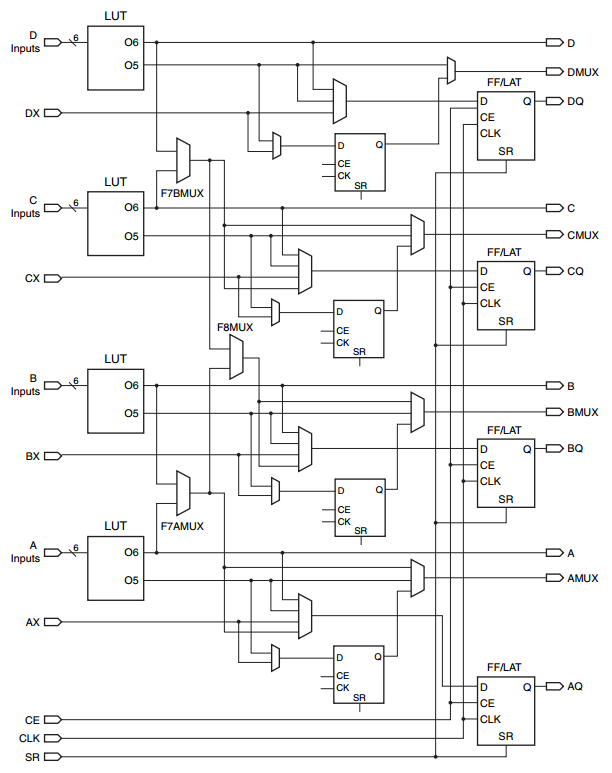
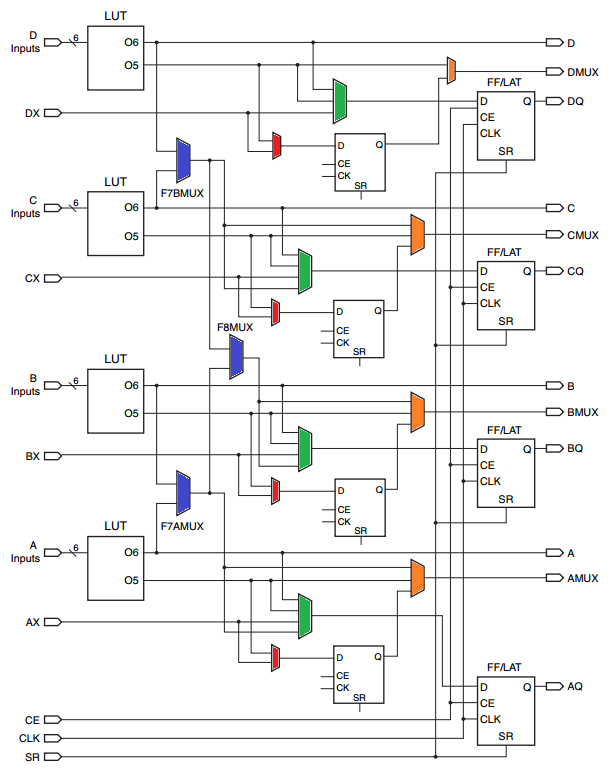
Quick save at ven. 19/08/2016_12:04:24,48

diff --git a/chapters/II-6-irradiation.tex b/chapters/II-6-irradiation.tex
@@ -7,24 +7,36 @@
 
   \section{Architecture of an FPGA}
 
-    To optimize the occupancy of the resources of the FPGA, a deep comprehension of the intrinsic architecture of the chip is required. To this end, a description of the building blocks of the FPGA is given.
+    To optimize the occupancy of the resources of the FPGA and develop code that uses the full potential of the device, a deep comprehension of the intrinsic architecture of the chip is required. To this end, a description of the building blocks of the FPGA is given.
 
-    \subsection{Configurable Logic Blocks} (CLBs) \cite{VIRTEX-CLB} are the base elements of the FPGA used to implement sequential and combinatorial logic. They are composed of two important objects: look-up tables (LUTs) and registers. LUTs are components which outputs are a function of the inputs as defined in a programmable table. They implement a truth table for every possible combination of the inputs which defines the value of the outputs. The response of a LUT to a change in the inputs is almost instantaneous. The outputs of the LUTs can, if so required by the design, be connect to registers which sample the signals at the rising edge of a given clock. Register are used for their sample-and-hold functionality which makes designs synchronous to clocks. With these two components, CLBs can implement complex functions and describe intricate systems. Each CLB is composed of two slices each composed of four LUTs and eight register which layout is shown in Figure \ref{fig:II-6-clb}. The Xilinx Virtex-6 FPGA used in the OptoHybrid v2a (XC6VLX130T) holds 10 000 CLBs with a total of 80 000 LUTs and 160 000 registers.
+    \subsection{Configurable Logic Blocks}
 
-    \begin{figure}[p!]
-      \centering
-      \includegraphics[width=\textwidth]{img/II-6-irradiation/clb.png}
-      \caption{Simplified view of a slice composed of four LUTs on the left and eight registers on the right \cite{VIRTEX-CLB}.}
-      \label{fig:II-6-clb}
-    \end{figure}
+      (CLBs) \cite{VIRTEX-CLB} are the base elements of the FPGA used to implement sequential and combinatorial logic. They are composed of two important objects: look-up tables (LUTs) and registers. LUTs are components which outputs are a function of the inputs as defined in a programmable table. They implement a truth table for every possible combination of the inputs which defines the value of the outputs. The response of a LUT to a change in the inputs is almost instantaneous. LUTs in the Xilinx Virtex-6 FPGAs can either implement functions with six inputs and a single output or functions with five inputs and two outputs. The outputs of the LUTs can, if so required by the design, be connect to registers which sample the signals at the rising edge of a given clock. Register are used for their sample-and-hold functionality which makes designs synchronous to clocks. With these two components, CLBs can implement complex functions and describe intricate systems. \\
 
-    \subsection{The switching matrix} is what connects CLBs with each other. It is a vast network of switches which are used to route signals between components. The open/closed status of each switch is programmable and defines the routes signals take inside the vast network of connections.
+      Each CLB is composed of two slices each made of four LUTs and eight register which layout is shown in Figure \ref{fig:II-6-clb}. Each LUT is connected to an input bus of six signals (A, B, C, and D inputs) and to an unbuffered output bus of a single bit (O6 to A, B, C, and D). Four additional signals enter the slice (AX, BX, CX, and DX) and are connected to multiplexers (red) which allows to buffer either the former or the second output of the LUTs (O5). The output of the same buffer is then connected to a second multiplexer (orange) which allows to select either the former or an unbuffered output of the LUTs (AMUX, BMUX, CMUX, and DMUX). Finally, a third multiplexer (green) connects a range of signals to the registers on the right which are then connected to four outputs (AQ, BQ, CQ, and DQ). Three additional multiplexers (blue) offer the possibility to mix the signals from the four LUTs to generate a wider range of logical operations. The flexibility offered by this architecture is what enables FPGAs to implement complex designs. The Xilinx Virtex-6 FPGA used in the OptoHybrid v2a (XC6VLX130T) holds 10 000 CLBs with a total of 80 000 LUTs and 160 000 registers.
 
-    \subsection{Block RAM} are dedicated storage elements present inside the FPGA which are not programmable in advance but are used to store data during run. Block RAMs can store up to 36 kb of data which can be configured in different ways: 32K x 1 bit, 16K x 2 bits, etc. They can also be used as first in first out (FIFO) modules which are similar to data queues.
+      \begin{figure}[p!]
+        \centering
+        \includegraphics[width=\textwidth]{img/II-6-irradiation/clb.png}
+        \caption{Simplified view of a slice composed of four LUTs on the left and eight registers on the right \cite{VIRTEX-CLB}.}
+        \label{fig:II-6-clb}
+      \end{figure}
 
-    \subsection{Digital Signal Processing} units or DSPs are modules which perform additions, subtractions, and multiplications using dedicated hardware elements. They are used to quickly solve mathematical problems without relying on CLBs which can consume large amount of resources to perform an equivalent task.
+    \subsection{The switching matrix}
 
-    \subsection{The configuration memory} is what makes an FPGA flexible: it holds the configuration of every single LUT, switching matrix element, etc. It defines the truth table of LUT, parametrizes the DSP, defines the connection between elements, etc. It is what implements the design in the FPGA. By nature, the configuration memory is volatile and will lose its configuration upon power down or reset. To reload it, the FPGA tries to read it out of an attached memory device or remains in a blank state if it fails to do so.
+      is what connects CLBs with each other. It is a vast network of switches which are used to route signals between components. The open/closed status of each switch is programmable and defines the routes signals take inside the vast network of connections.
+
+    \subsection{Block RAM}
+
+      are dedicated storage elements present inside the FPGA which are not programmable in advance but are used to store data during run. Block RAMs can store up to 36 kb of data which can be configured in different ways: 32K x 1 bit, 16K x 2 bits, etc. They can also be used as first in first out (FIFO) modules which are similar to data queues.
+
+    \subsection{Digital Signal Processing}
+
+      units or DSPs are modules which perform additions, subtractions, and multiplications using dedicated hardware elements. They are used to quickly solve mathematical problems without relying on CLBs which can consume large amount of resources to perform an equivalent task.
+
+    \subsection{The configuration memory}
+
+      is what makes an FPGA flexible: it holds the configuration of every single LUT, switching matrix element, etc. It defines the truth table of LUT, parametrizes the DSP, defines the connection between elements, etc. It is what implements the design in the FPGA. By nature, the configuration memory is volatile and will lose its configuration upon power down or reset. To reload it, the FPGA tries to read it out of an attached memory device or remains in a blank state if it fails to do so.
 
   \section{Firmware Design for the Irradiated FPGA}
 

diff --git a/thesis.tex b/thesis.tex
@@ -83,6 +83,7 @@
 
   % Introduction
   % \input{chapters/0-4-introduction}
+  % \cleardoublepage
 
   %%%%%%%%%%%%%%%%%%%%%%%%%%%%%%%
   %% Main matter of the thesis %%
@@ -91,57 +92,57 @@
 
   % \part{An Introduction to Particle Physics} % 32 pages
 
-    % \input{chapters/I-0-introduction.tex} % T OK
-    % \cleardoublepage
+  % \input{chapters/I-0-introduction.tex} % T OK
+  % \cleardoublepage
 
-    % \input{chapters/I-1-standard-model.tex} % T OK
-    % \cleardoublepage
+  % \input{chapters/I-1-standard-model.tex} % T OK
+  % \cleardoublepage
 
-    % \input{chapters/I-2-lhc.tex} % T OK
-    % \cleardoublepage
+  % \input{chapters/I-2-lhc.tex} % T OK
+  % \cleardoublepage
 
-    % \input{chapters/I-3-cms.tex} % T OK
-    % \cleardoublepage
+  % \input{chapters/I-3-cms.tex} % T OK
+  % \cleardoublepage
 
   % \part{The CMS GEM Upgrade Project} % > 80 pages
 
-    % \input{chapters/II-0-introduction.tex}
-    % \cleardoublepage
+  % \input{chapters/II-0-introduction.tex}
+  % \cleardoublepage
 
-    % \input{chapters/II-1-gem.tex}
-    % \cleardoublepage
+  % \input{chapters/II-1-gem.tex}
+  % \cleardoublepage
 
-    % \input{chapters/II-2-daq.tex}
-    % \cleardoublepage
+  % \input{chapters/II-2-daq.tex}
+  % \cleardoublepage
 
-    % \input{chapters/II-3-test-beam.tex}
-    % \cleardoublepage
+  % \input{chapters/II-3-test-beam.tex}
+  % \cleardoublepage
 
-    \input{chapters/II-4-slice-test.tex}
-    \cleardoublepage
+  %%% \input{chapters/II-4-slice-test.tex}
+  %%% \cleardoublepage
 
-    % \input{chapters/II-5-qualification.tex}
-    % \cleardoublepage
+  % \input{chapters/II-5-qualification.tex}
+  % \cleardoublepage
 
-    % \input{chapters/II-6-irradiation.tex}
-    % \cleardoublepage
+  \input{chapters/II-6-irradiation.tex}
+  \cleardoublepage
 
-    % \input{chapters/II-7-conclusion.tex}
-    % \cleardoublepage
+  % \input{chapters/II-7-conclusion.tex}
+  % \cleardoublepage
 
   % \part{Data Acquisition System Design} % > 26 pages
 
-    % \input{chapters/III-0-introduction.tex}
-    % \cleardoublepage
+  % \input{chapters/III-0-introduction.tex}
+  % \cleardoublepage
 
-    % \input{chapters/III-1-arch.tex}
-    % \cleardoublepage
+  % \input{chapters/III-1-arch.tex}
+  % \cleardoublepage
 
-    % \input{chapters/III-2-web-daq.tex}
-    % \cleardoublepage
+  % \input{chapters/III-2-web-daq.tex}
+  % \cleardoublepage
 
-    % \input{chapters/III-3-conclusion.tex}
-    % \cleardoublepage
+  % \input{chapters/III-3-conclusion.tex}
+  % \cleardoublepage
 
   %%%%%%%%%%%%%%%%%%%%%%%%%%%%%%%
   %% Back matter of the thesis %%

diff --git a/chapters/II-5-qualification.tex b/chapters/II-5-qualification.tex
@@ -3,7 +3,7 @@
 
   To prepare the DAQ system for the slice test, the electronic components need to be tested and qualified. For the VFAT2s, qualification procedures have to be developed to characterize the analog front-end of each chip, record their response to calibration pulses, and optimize the parameters to achieve uniformity over the entire detector. For the GEB, qualification means ensuring that no shorts are present and that the integrity of the signals is kept over the full length of the board. Finally, the system as a whole needs to be tested against communication errors or readout problems. \\
 
-  In this chapter, we present the algorithms we have developed to test and qualify the various systems which rely on the firmware and software development made for the test beam. We detail the calibration procedure of the analog front-end of the VFAT2 which has never been done before. Next, we describe the GEB testing PCB which we have created in order to test the communication through the GEB. Finally, we talk about the script used to test the system as a whole which is employed at CERN and in various research laboratories to set up DAQ systems for future developments. 
+  In this chapter, we present the algorithms we have developed to test and qualify the various systems which rely on the firmware and software development made for the test beam. We detail the calibration procedure of the analog front-end of the VFAT2 which has never been done before. Next, we describe the GEB testing PCB which we have created in order to test the communication through the GEB. Finally, we talk about the script used to test the system as a whole which is employed at CERN and in various research laboratories to set up DAQ systems for future developments.
 
   \section{Qualification of the VFAT2s}
 

diff --git a/chapters/II-4-slice-test.tex b/chapters/II-4-slice-test.tex
@@ -1,7 +1,9 @@
 \chapter{Developments for the Slice Test and the Final DAQ System}
 \label{chap:II-4-slice-test}
 
-  Using the feedback obtained during the test beam, a OptoHybrid v2b was developed which incorporated the QPLL and GBT chipsets. 
+  Using the feedback obtained during the test beam, a OptoHybrid v2b was developed which incorporated the QPLL and GBT chipsets. Firmware developments are required in order to make use of the latter and move from the GTX and SFP+ optical links to the GBT chipset coupled with the Versatil Link. \\
+
+  Furthermore, as the VFAT3 ASIC entered production, simulations were ran in order to quantify parameters such as the data rates and the dead time of the analog front-end due to an undershoot effect. 
 
   \section{Firmware Developments for the OptoHybrid}
 
